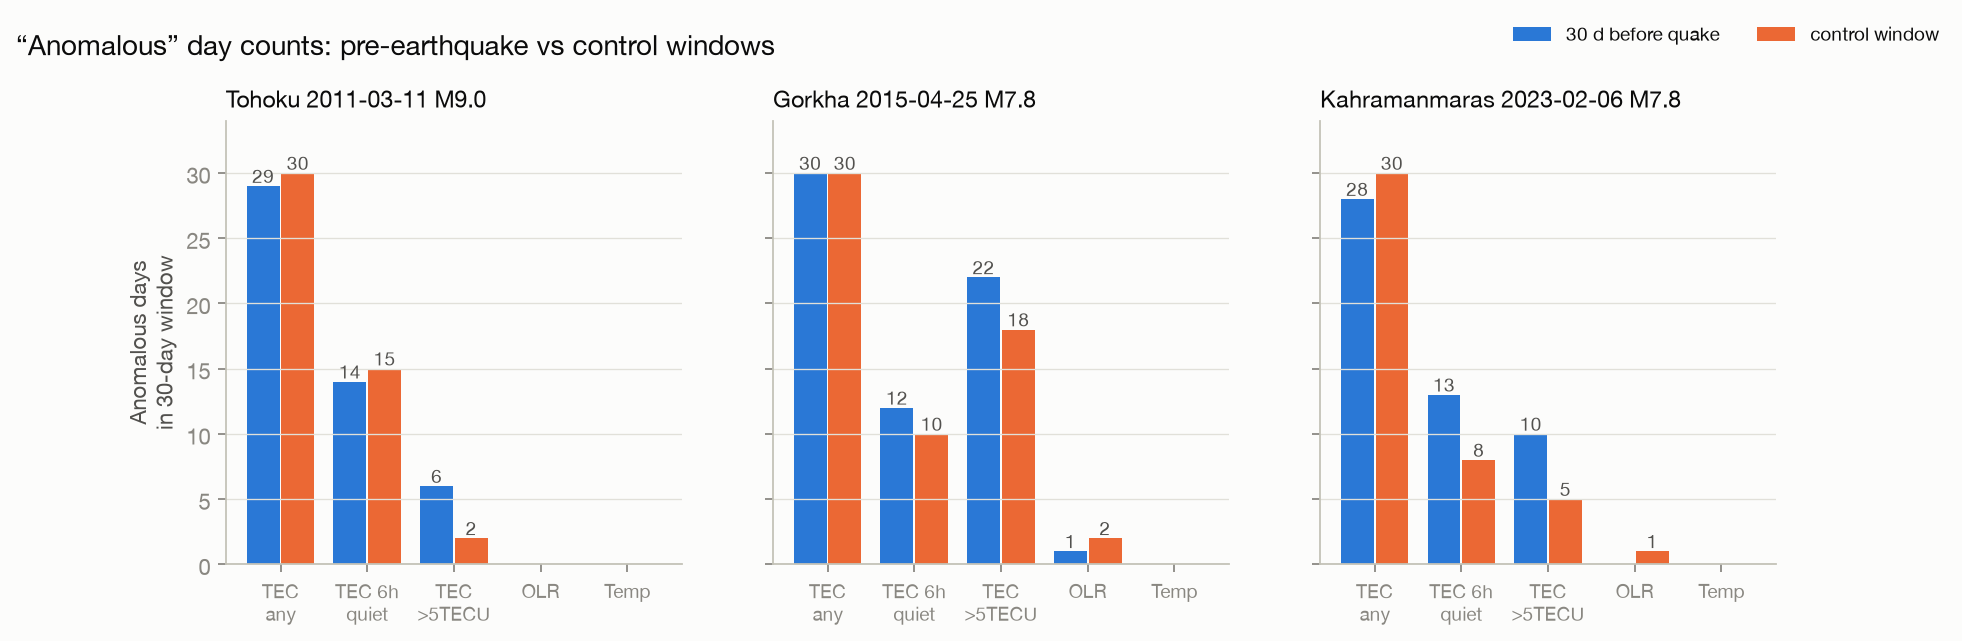
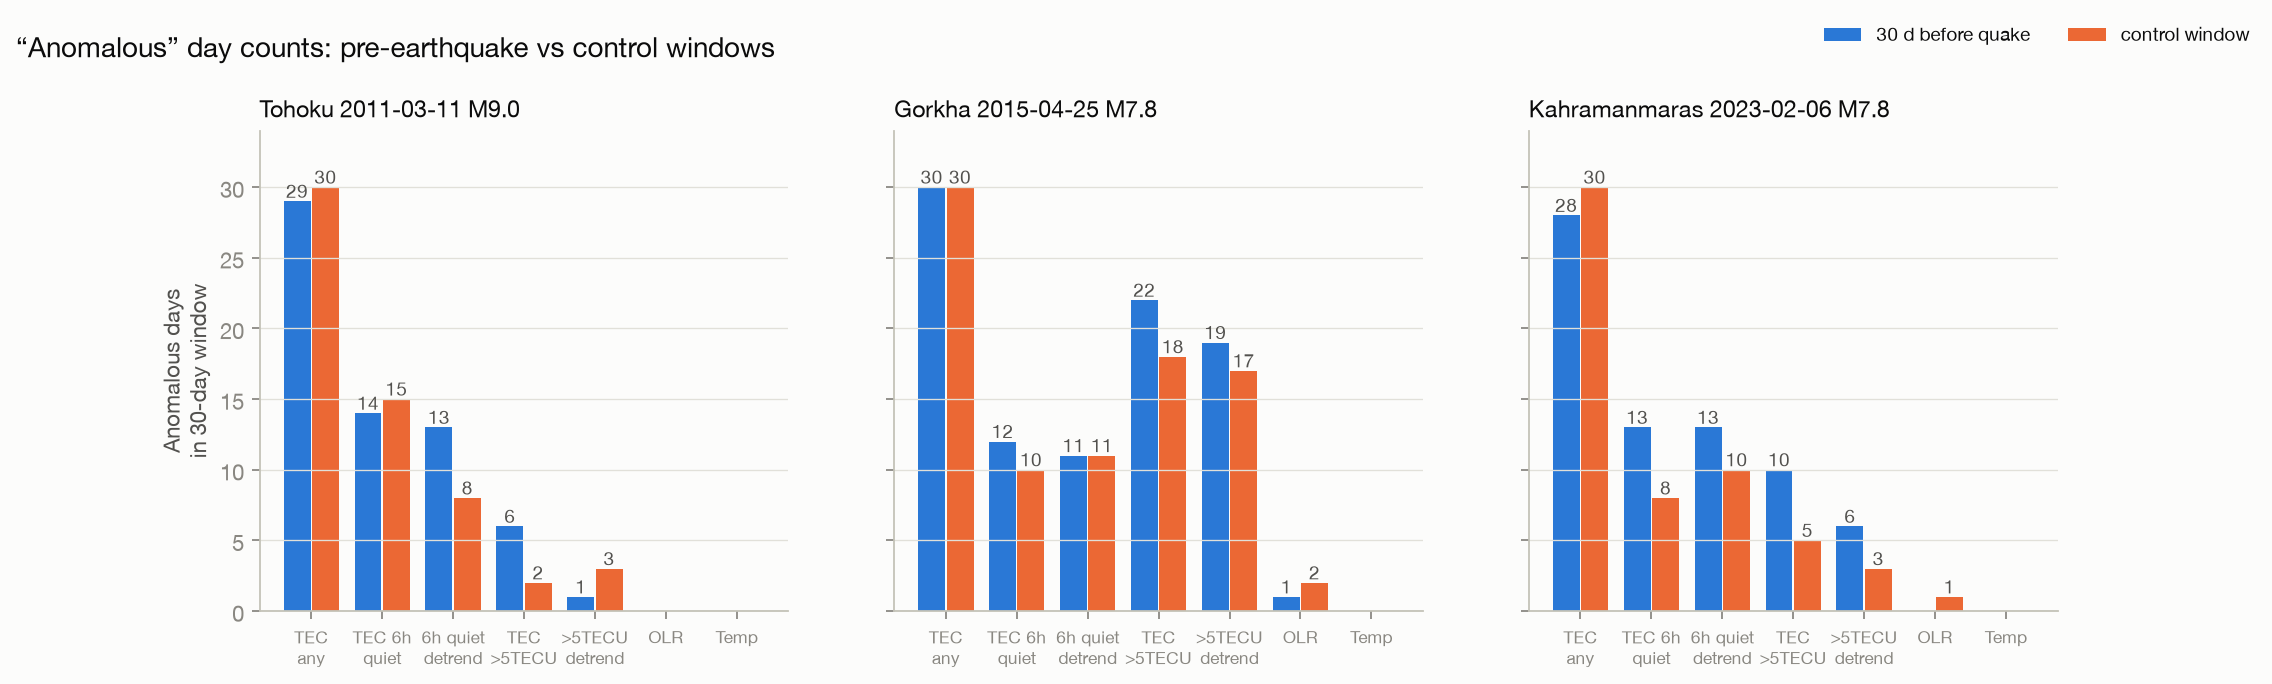
Precursor note: F10.7 covariate, solar confound tested, Fisher tests
Regress TEC on daily F10.7 + 81-day mean per epoch, rerun the Liu
detector on residuals. Tohoku's 6-vs-2 large-exceedance surplus, the
only precursor-friendly number, becomes 1-vs-3: it was the cycle-24
ramp (R2 0.41, +11 sfu/month) against a flat control year. No p-value
below 0.23 across all 21 comparisons.

Claude-Session: https://claude.ai/code/session_01V3QG5vdqpR9DmPBrZ2nNaS

diff --git a/research/earthquake-precursors/index.html b/research/earthquake-precursors/index.html
@@ -129,6 +129,19 @@
       <td>Used to shade storm days in every plot</td>
     </tr>
     <tr>
+      <td><strong>F10.7 solar flux</strong></td>
+      <td>Not a precursor: the other confounder. Solar EUV sets the background
+        ionisation level, and a rising level fools any trailing-window detector</td>
+      <td>GFZ Potsdam API (Penticton 10.7 cm flux)</td>
+      <td>Daily, whole-Sun</td>
+      <td>Used as a regression covariate, with its 81-day mean, to remove the
+        solar trend and the 27-day rotation from TEC</td>
+      <td><a href="https://doi.org/10.1002/2016JA023652">Thomas et al. 2017</a>
+        detrend for the same reason</td>
+      <td class="ok">Yes, API</td>
+      <td>Used, after despiking solar radio bursts</td>
+    </tr>
+    <tr>
       <td><strong>In-situ plasma density</strong></td>
       <td>Electron density and EM wave anomalies on orbit (the DEMETER stacked statistic)</td>
       <td>ESA Swarm via VirES; DEMETER (CNES); CSES (application)</td>
@@ -161,8 +174,12 @@
     <img src="img/tohoku.png" alt="Four rows of time series for Tohoku 2011, earthquake window beside control window">
     <figcaption>Tohoku 2011. The TEC surges near day &minus;9 look like a textbook precursor,
     until you notice the control year produces surges of similar size with no earthquake.
-    Early 2011 also sits on the steep ramp-up of solar cycle 24, which biases this detector
-    toward positive hits. Thermal channels: flat.</figcaption>
+    Row 4 shows why: the quake window sits on the steep ramp-up of solar cycle 24, its
+    81-day mean solar flux climbing from 85 to 112 sfu, while the control year is flat near
+    80. A detector whose baseline trails 15 days behind a rising signal reports positive
+    hits every day, which is the red-dominated pattern in row 2. Row 3 repeats the detector
+    with that solar term regressed out, and the excursions become symmetric. Thermal
+    channels: flat throughout.</figcaption>
   </figure>
 
   <figure>
@@ -186,18 +203,37 @@
     same count in the no-earthquake control window. With the papers' own bounds the base
     detector saturates: it fires on 28 to 30 of 30 days in every window, quake or no quake.
     Sustained 6-hour anomalies on quiet days (the Liu group's own day criterion, Kp &le; 3
-    after Thomas et al.) are as common in control windows: Tohoku counts 14 before the quake
-    and 15 in the quiet year. Large exceedances above 5 TECU lean toward the quake windows
-    (6 vs 2, 22 vs 18, 10 vs 5), but Gorkha's control year alone shows 18 such days, which
-    is solar maximum talking, not the fault. OLR and temperature stay at zero to two days
-    on both sides.</figcaption>
+    after Thomas et al.) are as common in control windows. The two "detrend" bars repeat
+    those tests with the solar flux term removed. Tohoku's one precursor-friendly number,
+    6 large exceedances against the control's 2, becomes 1 against 3 once the solar ramp
+    is taken out. Across all 21 comparisons on this chart, a Fisher exact test returns no
+    p-value below 0.23.</figcaption>
   </figure>
+
+  <h2>The solar test</h2>
+  <p>One number in the first version of this page pointed the other way: Tohoku showed
+  6 large ionospheric exceedances in the month before the quake against 2 in the control
+  year. We suspected the solar cycle rather than the fault, so we tested it instead of
+  asserting it. Adding daily solar radio flux and its 81-day mean as a regression
+  covariate, then running the identical detector on the residuals, settles the question.
+  In the Tohoku quake window the solar term explains 41 percent of the variance in
+  electron content and the 81-day mean climbs 11 sfu per month; in the control window it
+  explains 3 percent and the trend is flat. Remove it and the count goes from 6 against 2
+  to 1 against 3. The one apparent precursor in the study was the Sun.</p>
+  <p>The same correction barely moves Gorkha, where the solar term explains 3 percent of
+  the variance and there was nothing to remove, and halves the Kahramanmaras counts.
+  Notably the corrections do not all push one way: Tohoku's sustained-anomaly count shifts
+  slightly toward the quake window while its large-exceedance count reverses away from it.
+  Numbers that shuffle in different directions under a physically motivated correction are
+  what measurement noise looks like. A real signal gets clearer when you clean the data,
+  not merely different.</p>
 
   <div class="verdict">
     <strong>Verdict: nothing here predicts an earthquake.</strong>
     The anomalies are real fluctuations, but they appear at the same rate when no
-    earthquake follows. With fixed thresholds and honest controls, every "precursor"
-    we reproduced dissolves into solar activity, weather, or base rate. This matches
+    earthquake follows, and not one of the 21 quake-versus-control comparisons here
+    reaches statistical significance. With fixed thresholds and honest controls, every
+    "precursor" we reproduced dissolves into solar activity, weather, or base rate. This matches
     the systematic critiques of the precursor literature, and it is why decades of
     retrospective case studies have never produced a working prospective forecast.
   </div>
